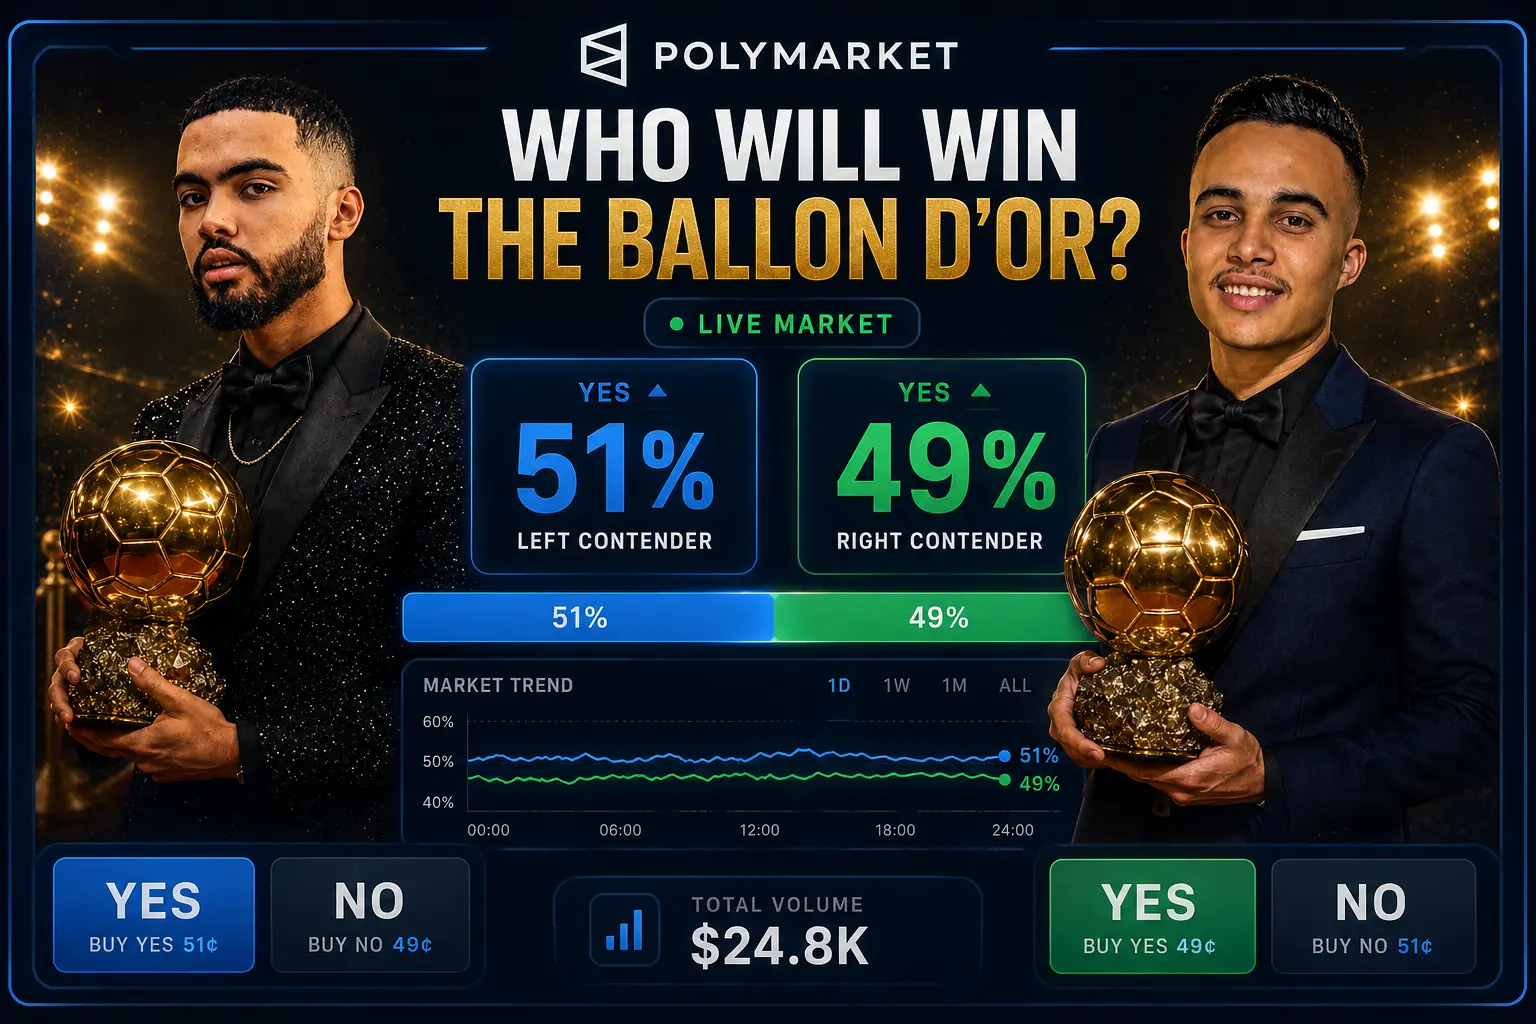
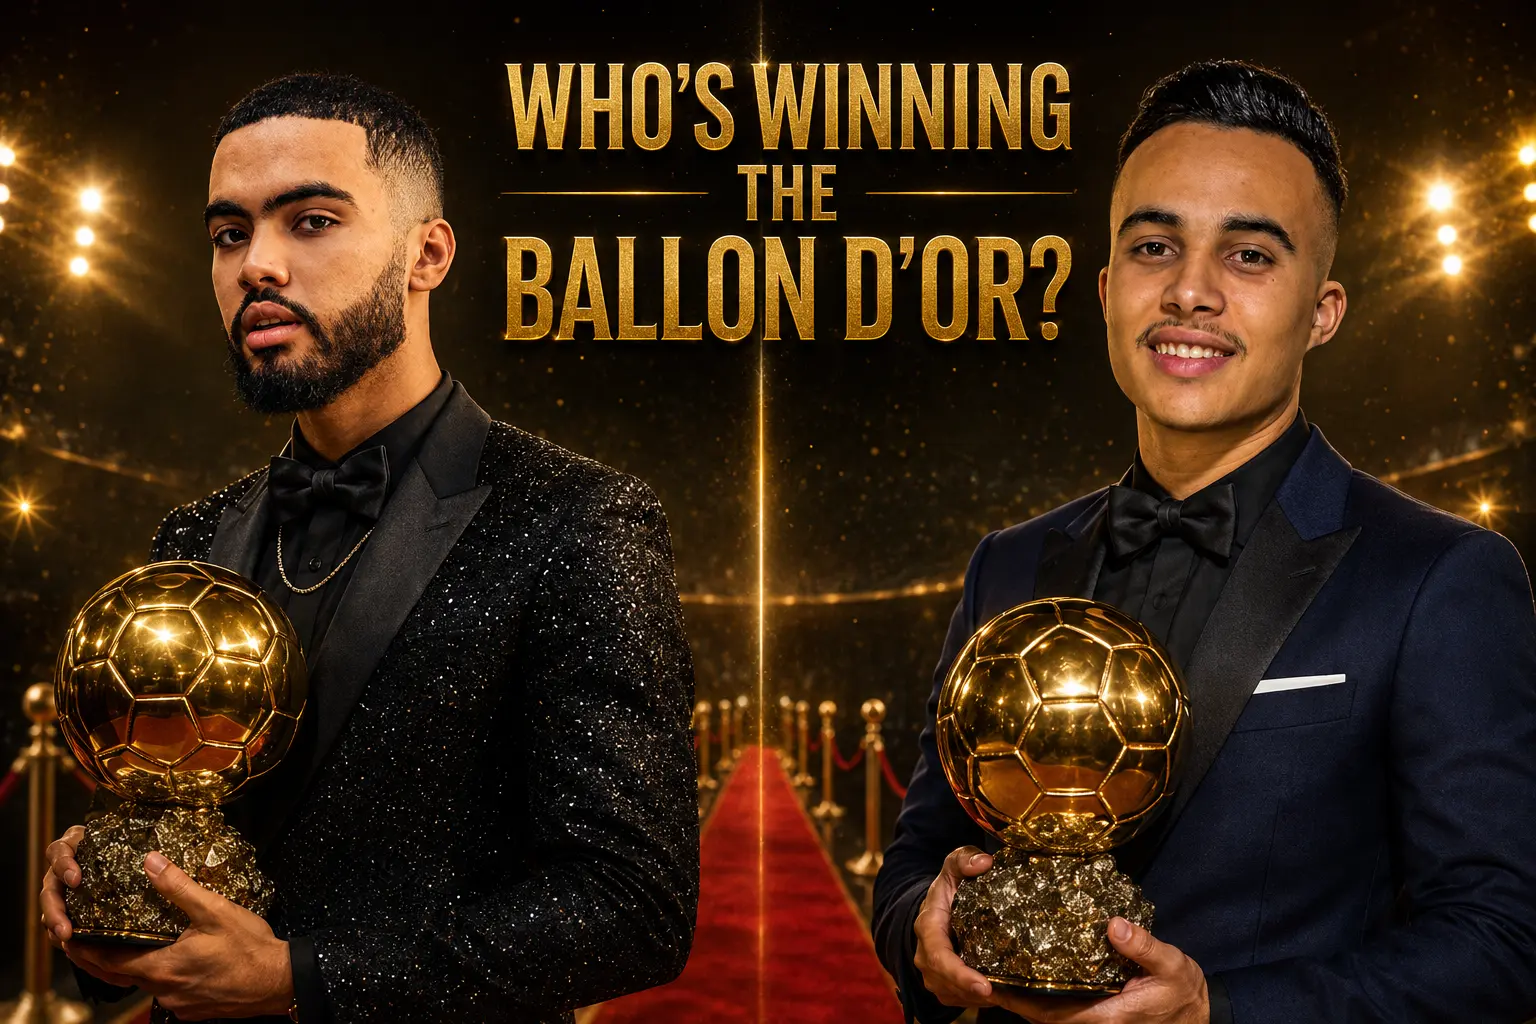
Update Ballon d'Or poster and commentary

diff --git a/app/vote-config.ts b/app/vote-config.ts
@@ -2,7 +2,7 @@ export const VOTE_CONFIG = {
   question: "Who will win the Ballon d'Or?",
   subtitle: "The boys decide. One vote per browser — you can change your mind.",
   commentatorLine:
-    "يا سادة يا كرام… 51% مقابل 49%! الكرة الذهبية حائرة بين النجمين… فمن يحسم المعركة؟",
+    "يا سادة يا كرام… الكرة الذهبية حائرة بين النجمين… فمن يحسم المعركة؟",
   candidates: {
     left: {
       id: "left" as const,
